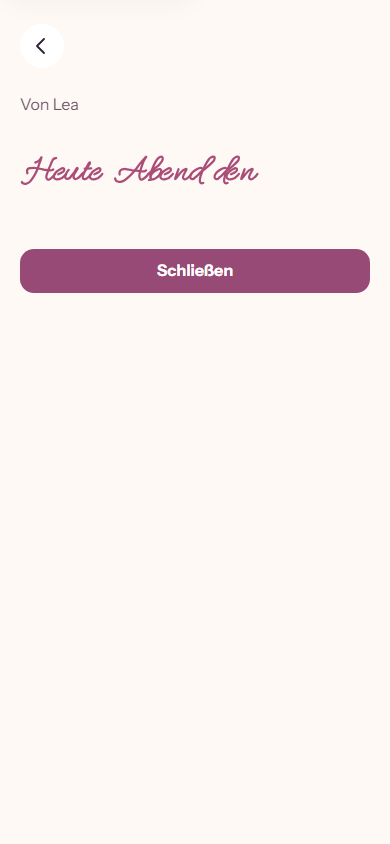
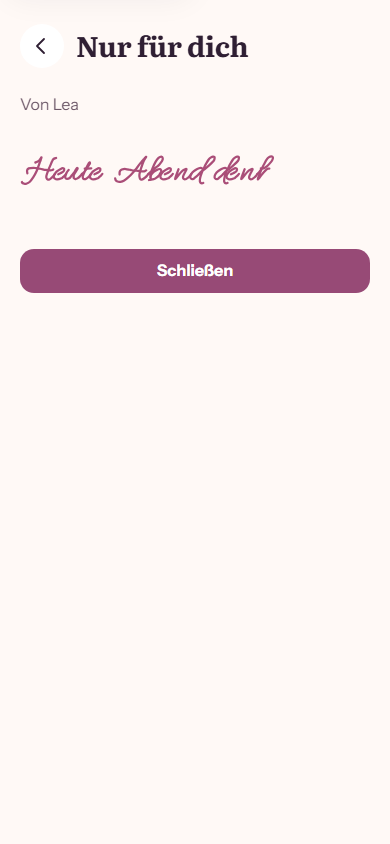
Revert "feat(once-messages): let the handwritten words lead an open message (#2372)"
The Product Owner reversed the decision on 2026-11-28: the page title
"only for you" stays visible above an open message, with the handwritten
words below the sender line, as before.

This reverts commit c831a6794.

Changed region(s): [[0.1846, 0.0308, 0.6462, 0.0924], [0.6462, 0.1848, 0.7077, 0.2156]]

diff --git a/web/e2e/tests/once-messages.spec.ts b/web/e2e/tests/once-messages.spec.ts
@@ -273,16 +273,6 @@ test('two devices exchange actual encrypted content, deliberately reveal once an
     await expect(receiver.locator('.once-handwriting .sr-only')).toHaveText(
       WORDS,
     );
-    // The page title steps back visually but stays the page's heading.
-    const title = receiver.getByRole('heading', {
-      level: 1,
-      name: copy.title,
-      exact: true,
-    });
-    await expect(title).toHaveCount(1);
-    expect(
-      await title.evaluate((element) => element.getBoundingClientRect().height),
-    ).toBeLessThanOrEqual(1);
     await expect(handwriting).toHaveAttribute('data-phase', 'playing');
     await receiver.waitForTimeout(1_100);
     await captureScreenshot(

diff --git a/web/src/components/OnceMessages.css b/web/src/components/OnceMessages.css
@@ -124,20 +124,6 @@
   font: var(--font-utility-heading);
 }
 
-/* #2372: an open message leads with its handwritten words; the page title
-   stays in the accessibility tree only, like `.sr-only`. */
-.once-page .page-heading.page-heading-secondary.once-heading-quiet h1 {
-  position: absolute;
-  width: 1px;
-  height: 1px;
-  margin: -1px;
-  padding: 0;
-  overflow: hidden;
-  clip: rect(0, 0, 0, 0);
-  white-space: nowrap;
-  border: 0;
-}
-
 /*
  * #2372: the opened message written by hand. Each stroke has
  * `pathLength="1"` and draws in with the catalogue's Enter `draw` keyframes

diff --git a/web/src/components/OnceMessages.tsx b/web/src/components/OnceMessages.tsx
@@ -570,9 +570,6 @@ function OnceTask({
   const header = (
     <PageHeader
       title={t('onceMessages.title')}
-      // #2372: while a message is open, its words lead; the page title stays
-      // only for assistive technology (Product Owner, 2026-11-28).
-      className={mode === 'read' && content ? 'once-heading-quiet' : ''}
       titleContext={mode === 'compose' ? <ProMark label="Pro" /> : undefined}
       before={
         <TaskBackButton

diff --git a/docs/product/design/evidence/2372/README.md b/docs/product/design/evidence/2372/README.md
@@ -3,7 +3,7 @@
 Captured with Playwright Chromium from `web/e2e/tests/once-messages.spec.ts`, run with `SCREENSHOT_EXPORT_DIR`. The messages are really encrypted between two browser contexts; the server is mocked.
 
 - `once-open-handwriting-writing-390-light.png`: about 1.1 s after opening. The partner's words are halfway written.
-- `once-open-390-light.png`, `once-open-360-dark.png` and `once-open-430-light.png`: the finished handwriting, wrapped to the reading width. While a message is open, the page title is visually hidden (Product Owner, 2026-11-28) and stays the page's heading for assistive technology, so the words lead below Back and the sender line.
+- `once-open-390-light.png`, `once-open-360-dark.png` and `once-open-430-light.png`: the finished handwriting, wrapped to the reading width.
 - `once-open-320-light-large-reduced.png`: 320 px with 200 % text and reduced motion. The handwriting appears finished at once and grows with the text size.
 - `once-voice-390-light.png` and `once-photo-390-light.png`: voice and photo-only messages, unchanged.
 
